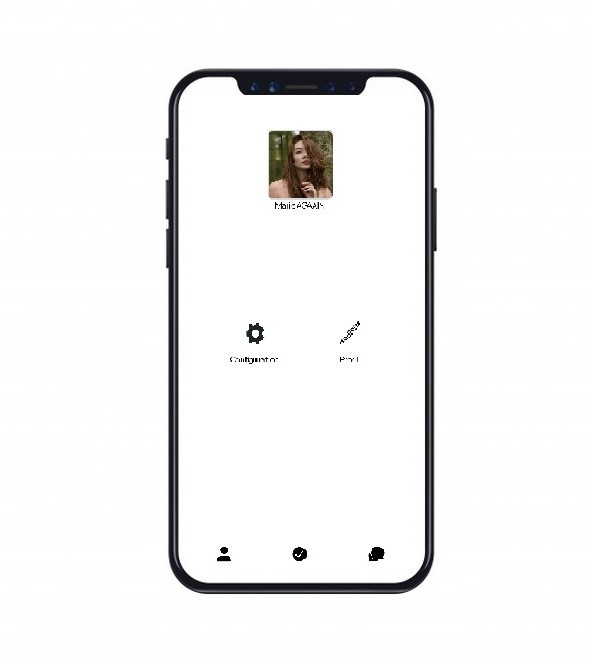
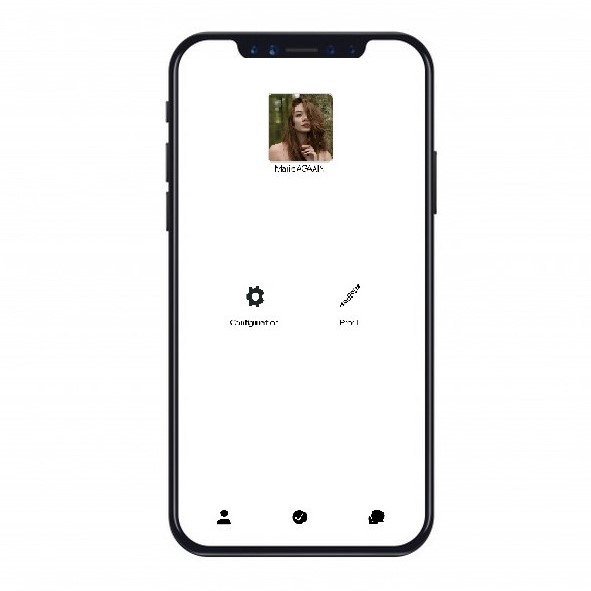
modif md

Changed region(s): [[0.2741, 0.0305, 0.7614, 0.9442], [0.3959, 0.4873, 0.4569, 0.5482], [0.5787, 0.4873, 0.6091, 0.5482]]

diff --git a/README.md b/README.md
@@ -1,5 +1,4 @@
 # react_meet_app
 - Projet personnel d'une application de rencontre : 
-![Screenshot](Screenshot/PAGE1.jpg)
-![Screenshot](Screenshot/PAGE2.jpg)
-![Screenshot](Screenshot/PAGE3.jpg)
+![Screenshot](Screenshot.png)
+
